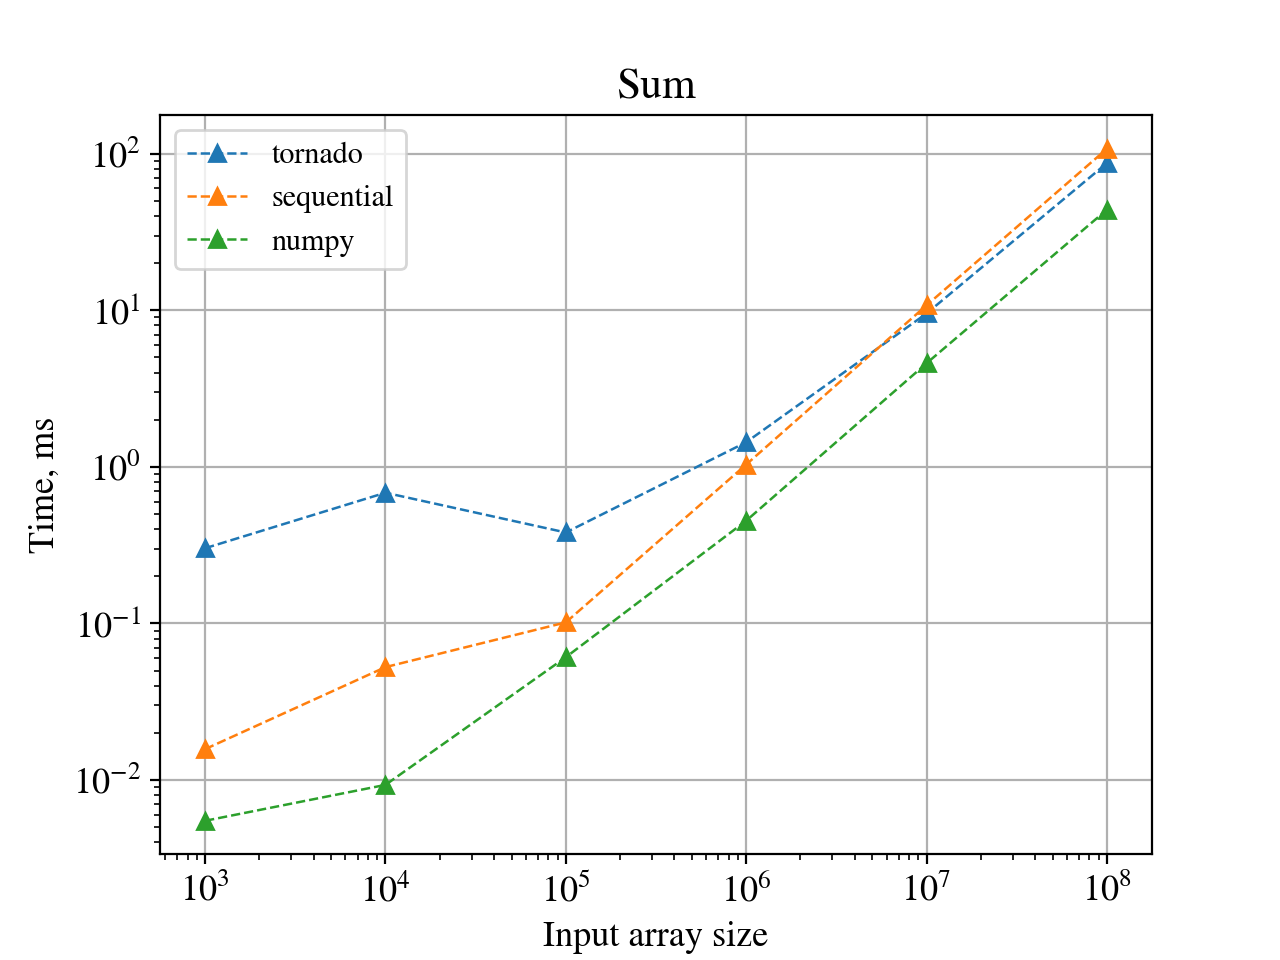
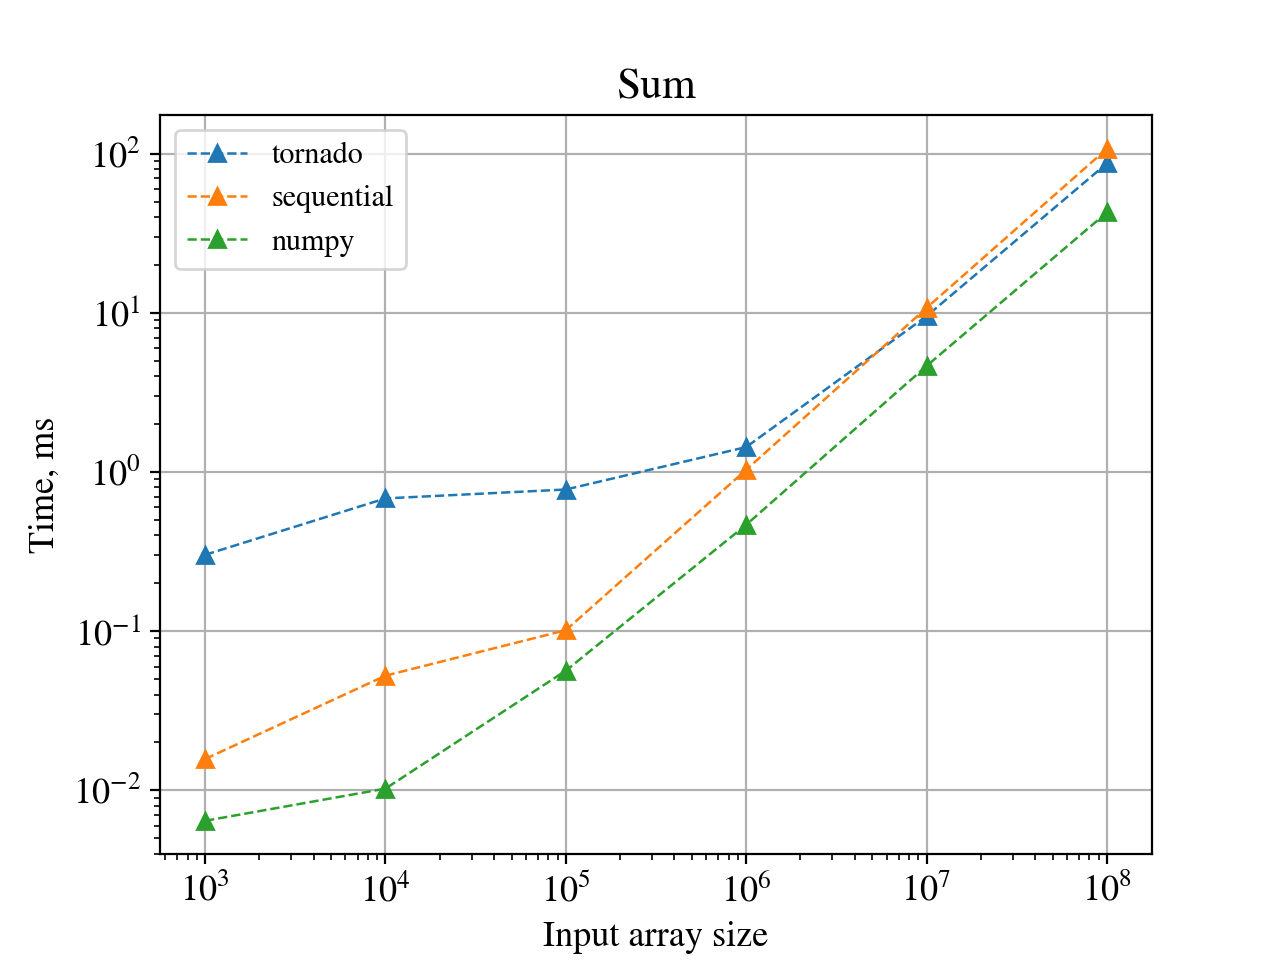
update plots

diff --git a/perf_plot.py b/perf_plot.py
@@ -34,7 +34,7 @@ def plot_sum():
 		299743,
 		302003,
 		683136,
-		380664,
+		776896,
 		1435724,
 		9539856,
 		87032585,
